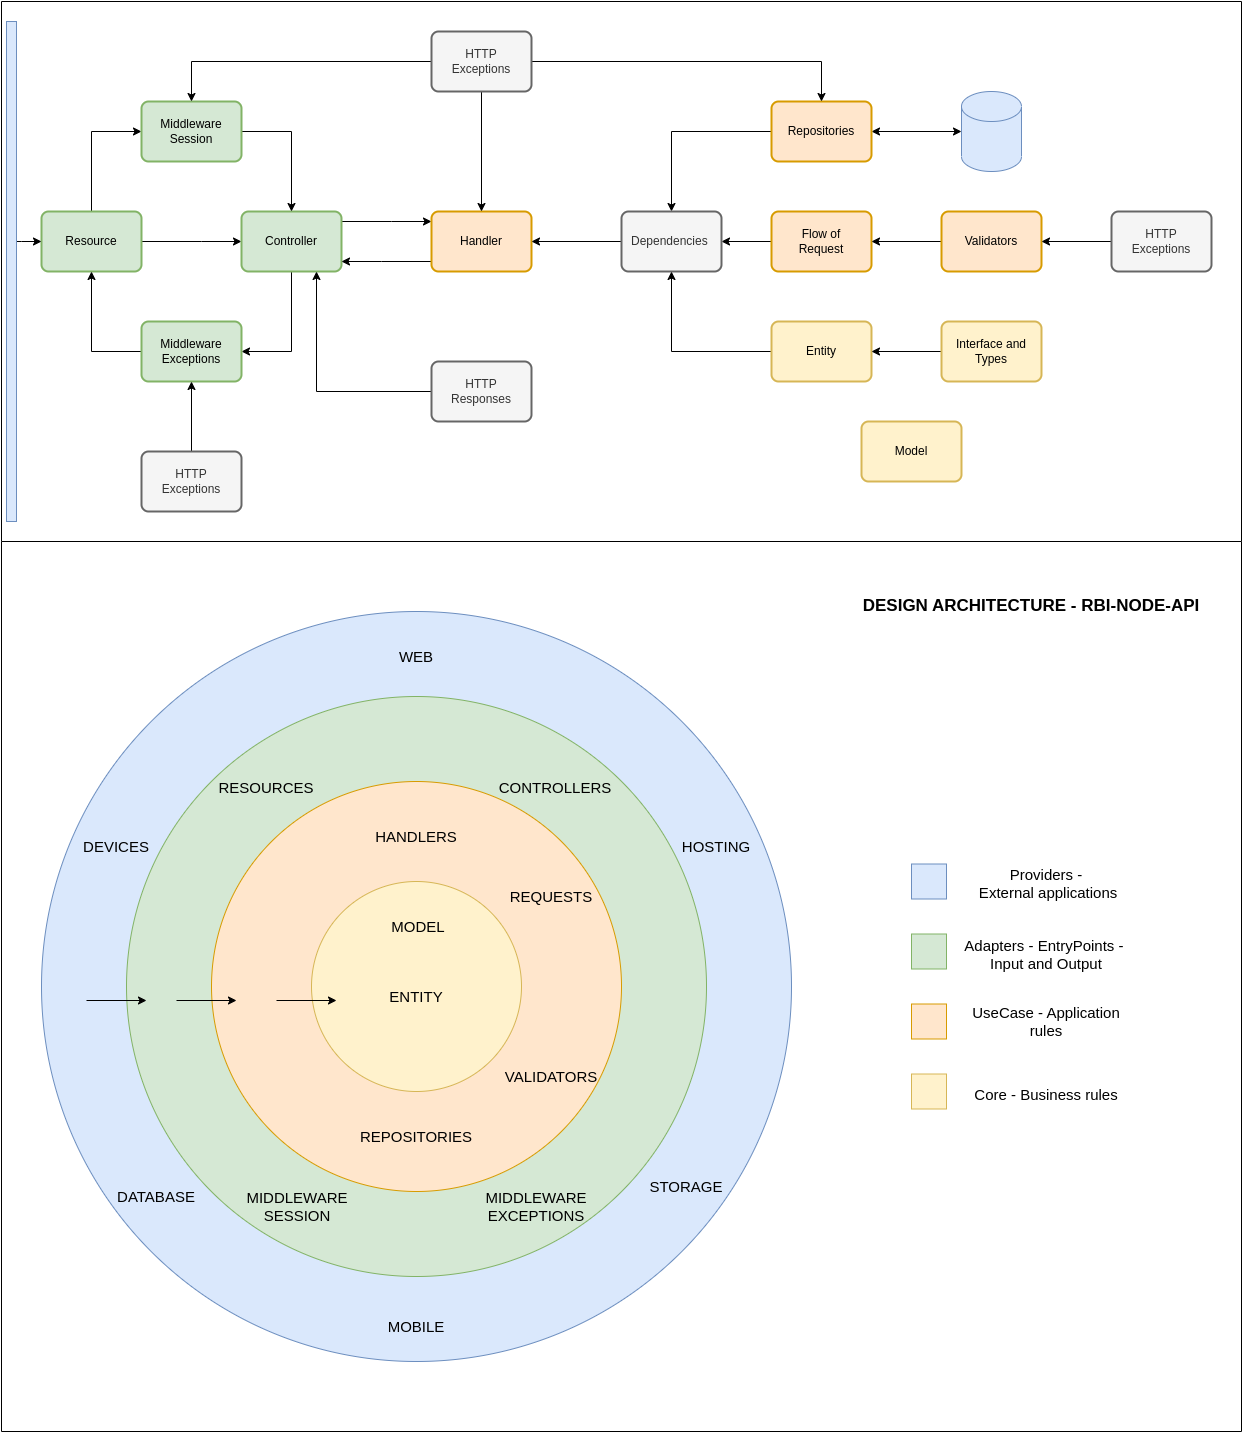
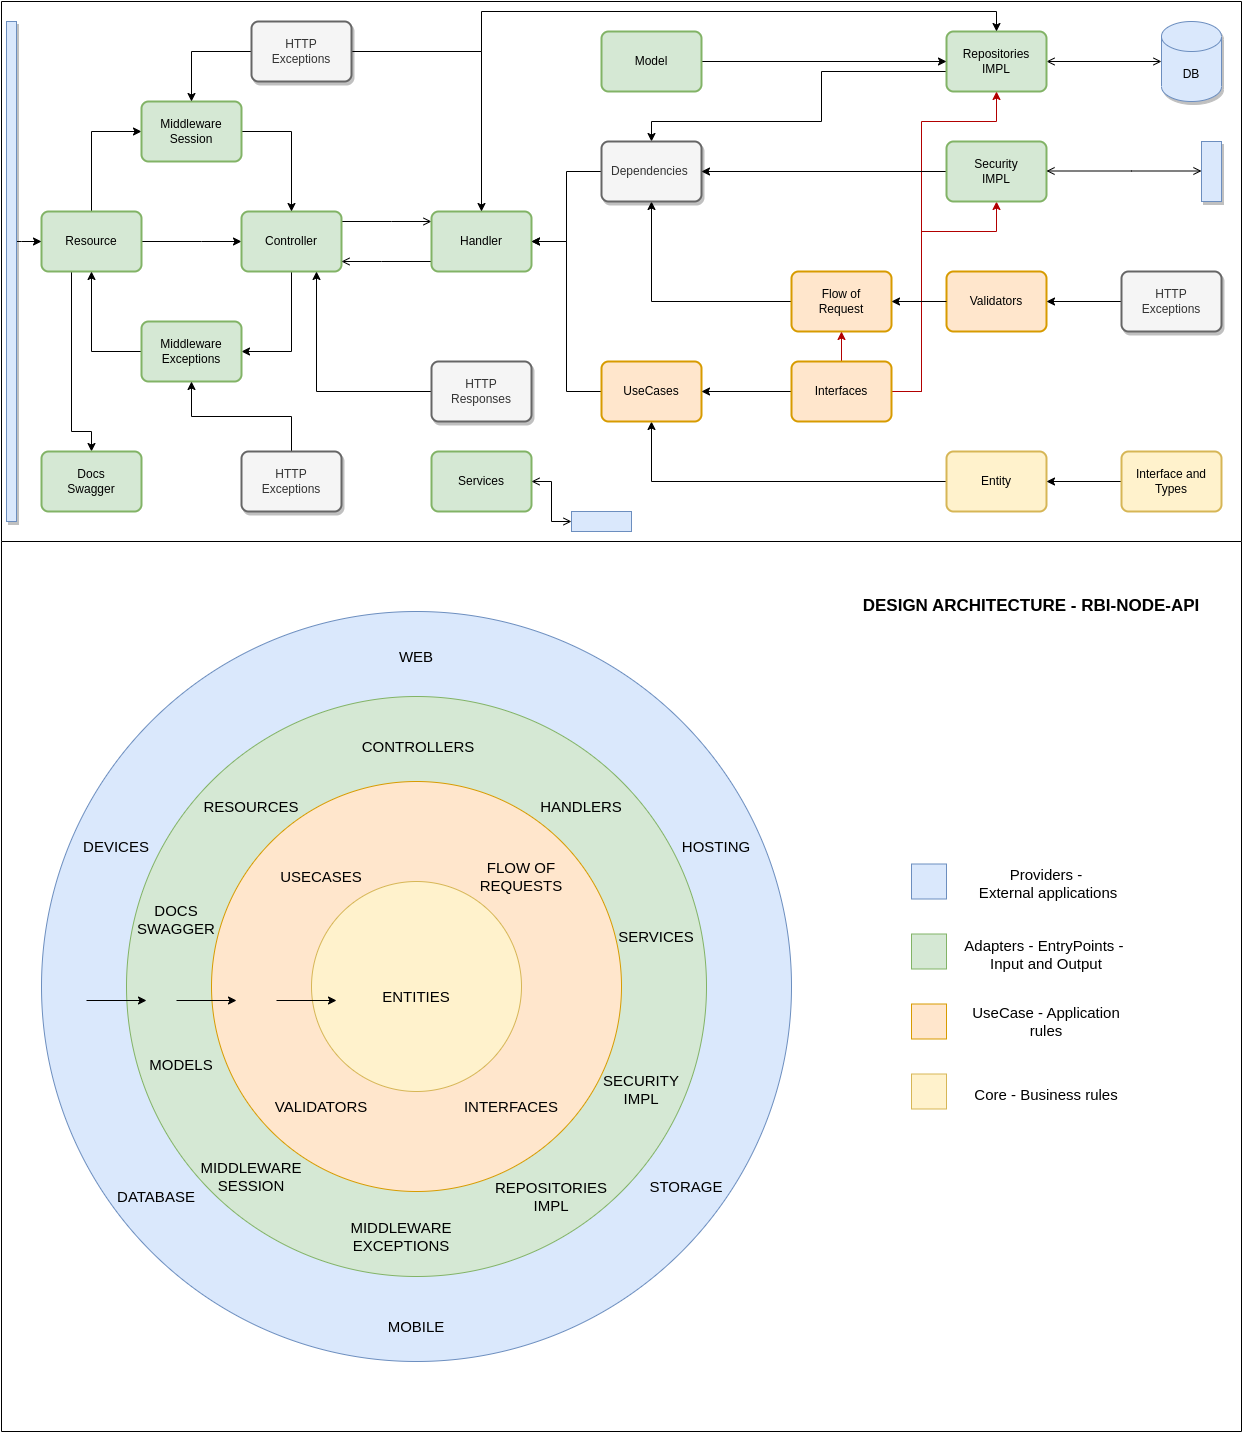
docs: refinamento dos diagramas, atualização do swagger -> passwordRoutes

diff --git a/src/infra/docs/build/script.ts b/src/infra/docs/build/script.ts
@@ -1,7 +1,9 @@
+import "tsconfig-paths/register";
+
 import type { SwaggerInterface, Swagger } from "./interface";
 import * as fs from "fs";
 
-import swaggerJson from "../swagger.json";
+import swaggerJson from "@root/swagger.json";
 
 import information from "../config/info.json";
 
@@ -15,6 +17,9 @@ import authResponses from "../auth/responses.json";
 import customerRoutes from "../customer/paths.json";
 import customerRequests from "../customer/requests.json";
 import customerResponses from "../customer/responses.json";
+
+import passwordRoutes from "../password/paths.json";
+import passwordRequests from "../password/requests.json";
 
 class BuildSwagger implements SwaggerInterface {
   public file = swaggerJson as Swagger;
@@ -46,7 +51,7 @@ class BuildSwagger implements SwaggerInterface {
   save(): void {
     const toSave = JSON.stringify(this.file);
 
-    fs.writeFileSync("../swagger.json", toSave);
+    fs.writeFileSync("./swagger.json", toSave);
   }
 }
 
@@ -60,10 +65,11 @@ build.components([
   exceptions,
   authRequests,
   customerRequests,
+  passwordRequests,
   authResponses,
   customerResponses,
 ]);
 
-build.paths([authRoutes, customerRoutes]);
+build.paths([authRoutes, customerRoutes, passwordRoutes]);
 
 build.save();

diff --git a/src/infra/server.ts b/src/infra/server.ts
@@ -9,7 +9,7 @@ import { customerRoutes } from "./resources/customer.routes";
 import { passwordRoutes } from "./resources/password.routes";
 
 import swaggerUi from "swagger-ui-express";
-import swaggerFile from "./docs/swagger.json";
+import swaggerFile from "@root/swagger.json";
 
 export const server = express();
 

diff --git a/vitest.config.ts b/vitest.config.ts
@@ -10,6 +10,7 @@ export default defineConfig({
   },
   resolve: {
     alias: {
+      "@root": path.resolve(__dirname, "./"),
       "@src": path.resolve(__dirname, "./src/"),
       "@inf": path.resolve(__dirname, "./src/infra/"),
       "@app": path.resolve(__dirname, "./src/app/"),

diff --git a/docs/README.md b/docs/README.md
@@ -1,16 +1,17 @@
 # Red-Boar-Inn API
 
-> Projeto Server - API utilizando **NodeJs** para o jogo **Red Boar Inn**
+>
 
 - [Red-Boar-Inn API](#red-boar-inn-api)
   - [Structure](#structure)
   - [Endpoints](#endpoints)
   - [Diagrams](#diagrams)
     - [Architecture](#architecture)
-    - [Auth endpoint](#auth-endpoint)
-    - [Customer endpoint](#customer-endpoint)
-    - [UseCase](#usecase)
-    - [Modeling](#modeling)
+    - [UseCases](#usecases)
+    - [Auth routes](#auth-routes)
+    - [Customer routes](#customer-routes)
+    - [Password routes](#password-routes)
+    - [Entity](#entity)
     - [Request Response](#request-response)
 
 ## Structure
@@ -27,21 +28,25 @@
 
 ![architecture](./diagrams/architecture.png)
 
-### Auth endpoint
+### UseCases
 
-![auth](./diagrams/auth_routes.png)
+![useCases](./diagrams/usecases.png)
 
-### Customer endpoint
+### Auth routes
 
-![customers](./diagrams/customer_routes.png)
+![authRoutes](./diagrams/authRoutes.png)
 
-### UseCase
+### Customer routes
 
-![usecase](./diagrams/usecase.png)
+![customerRoutes](./diagrams/customerRoutes.png)
 
-### Modeling
+### Password routes
 
-![modeling](./diagrams/modeling.png)
+![passwordRoutes](./diagrams/passwordRoutes.png)
+
+### Entity
+
+![entityCustomer](./diagrams/entity.png)
 
 ### Request Response
 
